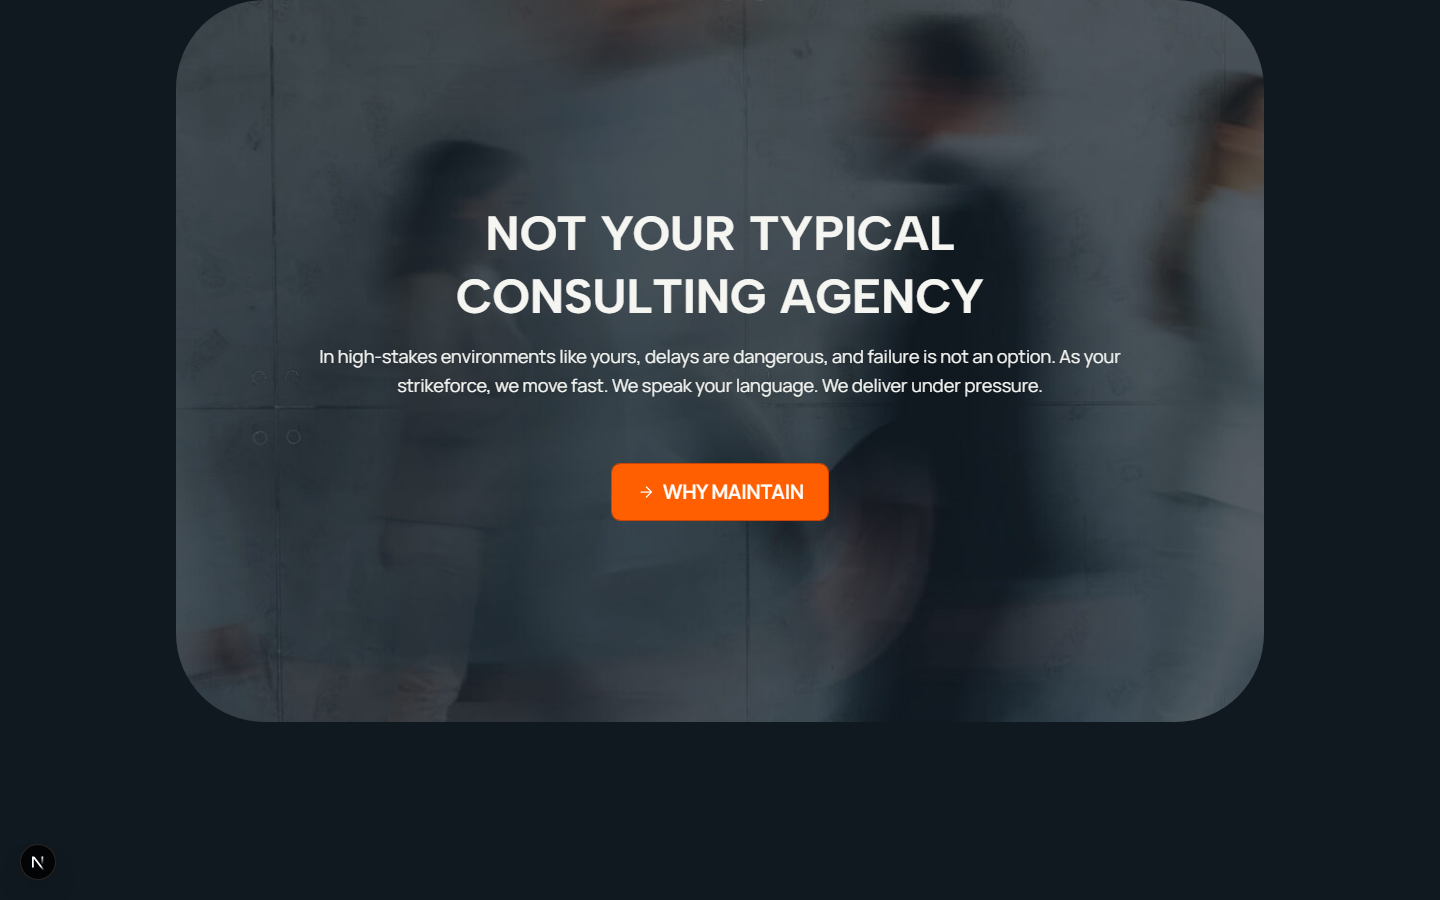
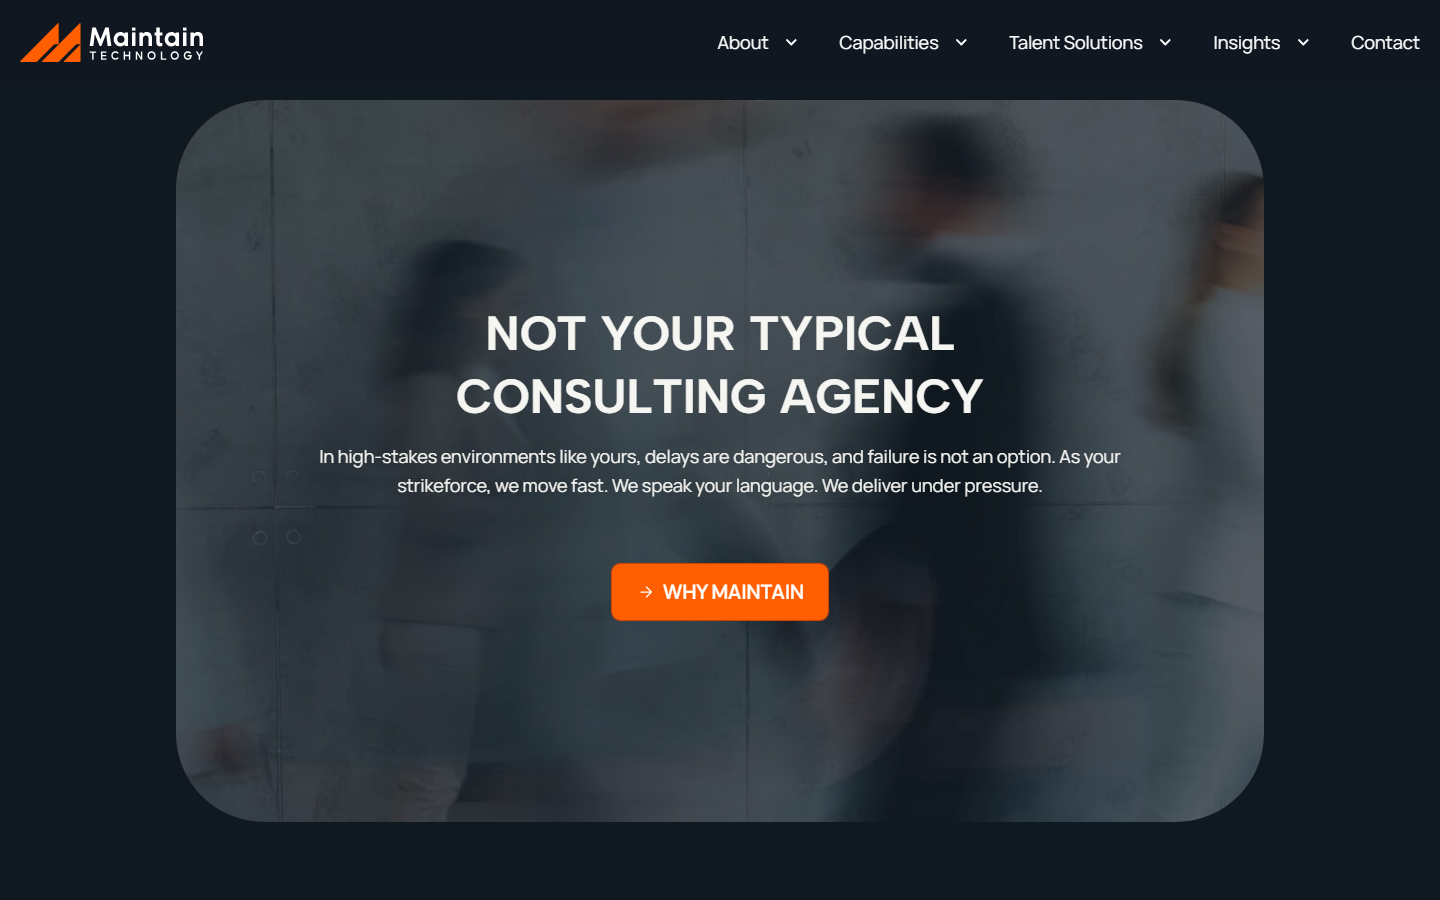
major update for maintain tech

diff --git a/src/lib/elementor/render.jsx b/src/lib/elementor/render.jsx
@@ -4,7 +4,7 @@
 // generated CSS (src/styles/wp) is keyed on those exact classes and data-ids.
 // Every shape here was read off the real rendered HTML in reference/html.
 
-import { resolveSettings, isVisible, componentProps } from './props.js';
+import { resolveSettings, isVisible, componentProps, resolveTag } from './props.js';
 import { iconOf } from './svg.js';
 import { components, templates, images } from '../content.js';
 import HtmlWidget from '../../components/HtmlWidget.jsx';
@@ -342,21 +342,54 @@ function TemplateWidget({ settings, ctx }) {
   );
 }
 
+/** Per-instance styles JetEngine prints inline before each component render:
+    any container whose `background_image` is bound to a component prop gets a
+    background rule scoped to this instance (the industry cards). The selector
+    shape matches the live output. */
+function componentInstanceCss(componentId, uid, nodes, props, ctx) {
+  const rules = [];
+  const walk = (list) => {
+    for (const n of list || []) {
+      const raw = n.settings?.__dynamic__?.background_image;
+      if (raw) {
+        const v = resolveTag(raw, props, ctx);
+        const url = typeof v === 'string' ? v : v?.url;
+        if (url) {
+          const base = `.jet-component-instance-${uid}.jet-listing-grid--${componentId} .elementor-element.elementor-element-${n.id}`;
+          rules.push(
+            `${base}:not(.elementor-motion-effects-element-type-background), ${base} > .elementor-motion-effects-container > .elementor-motion-effects-layer{background-image:url("${url}");}`
+          );
+        }
+      }
+      walk(n.elements);
+    }
+  };
+  walk(nodes);
+  return rules.join('');
+}
+
 function ComponentWidget({ componentId, settings, ctx, uid }) {
   const comp = components[componentId];
   if (!comp) return null;
   const props = componentProps(comp, settings);
+  const css = componentInstanceCss(componentId, uid, comp.tree, props, ctx);
   return (
-    <div
-      className={cx(
-        'elementor',
-        `elementor-${componentId}`,
-        `jet-listing-grid--${componentId}`,
-        `jet-component-instance-${uid}`
-      )}
-    >
-      <Tree nodes={comp.tree} ctx={{ ...ctx, props, depth: 0 }} />
-    </div>
+    <>
+      {css ? <style type="text/css">{css}</style> : null}
+      <div
+        data-elementor-type="jet-engine-component"
+        data-elementor-id={componentId}
+        className={cx(
+          'elementor',
+          `elementor-${componentId}`,
+          `jet-listing-grid--${componentId}`,
+          `jet-component-instance-${uid}`
+        )}
+        data-elementor-post-type="jet-engine"
+      >
+        <Tree nodes={comp.tree} ctx={{ ...ctx, props, depth: 0 }} />
+      </div>
+    </>
   );
 }
 

diff --git a/public/styles/site.css b/public/styles/site.css
@@ -4543,7 +4543,10 @@ html.js [text-split]:not([data-split]) {
 }
 .sticky_circle_wrap > .e-con {
   position: sticky;
-  top: 0;
+  /* Elementor Pro pinned this container with sticky_offset:100 (all devices):
+     the hero circle hangs 100px below the viewport top — just under the fixed
+     header — and expands from the navbar's bottom edge, never behind it. */
+  top: 100px;
 }
 .sticky_circle_wrap .circle {
   width: min(60em, 92vw);
@@ -4649,6 +4652,14 @@ html.js .fx-reveal.in-view {
   visibility: hidden;
   transition: opacity 0.35s ease, visibility 0.35s ease;
 }
+/* Elementor's base stylesheet hides popup documents with
+   `[data-elementor-type="popup"]:not(.elementor-edit-area){display:none}` —
+   specificity (0,2,0), which beats the single class above. Requalify so the
+   drawer keeps `display:flex` and opacity/visibility do the show/hide (a
+   display:none base state would also kill the open transition). */
+[data-elementor-type='popup'].elementor-location-popup {
+  display: flex;
+}
 .elementor-location-popup.is-open {
   opacity: 1;
   visibility: visible;
@@ -4667,6 +4678,10 @@ html.js .fx-reveal.in-view {
   position: relative;
 }
 .elementor-nav-menu .sub-menu {
+  /* Elementor's `--dropdown-none` widget CSS hides every `.elementor-nav-menu--dropdown`
+     (this ul included) with display:none; SmartMenus flipped it to block inline
+     on hover. Keep it block permanently — opacity/visibility below do the hiding. */
+  display: block;
   position: absolute;
   top: 100%;
   left: 0;
@@ -4691,6 +4706,16 @@ html.js .fx-reveal.in-view {
   margin-left: 0.35em;
   fill: currentColor;
   vertical-align: baseline;
+}
+
+/* --- sticky header (was Elementor Pro sticky) ----------------------------- */
+/* At rest the header is position:absolute over the hero (post-23.css). On the
+   live site Elementor Pro JS pins it with position:fixed once scrolled;
+   Effects.jsx toggles this class past the 100px effects offset. The blur/tint
+   restyle for the same class already ships in the live CSS. */
+html.js .elementor-location-header .header.elementor-sticky--effects {
+  position: fixed;
+  top: 0;
 }
 
 /* --- forms (was Forminator) ---------------------------------------------- */

diff --git a/src/styles/app.css b/src/styles/app.css
@@ -95,7 +95,10 @@ html.js [text-split]:not([data-split]) {
 }
 .sticky_circle_wrap > .e-con {
   position: sticky;
-  top: 0;
+  /* Elementor Pro pinned this container with sticky_offset:100 (all devices):
+     the hero circle hangs 100px below the viewport top — just under the fixed
+     header — and expands from the navbar's bottom edge, never behind it. */
+  top: 100px;
 }
 .sticky_circle_wrap .circle {
   width: min(60em, 92vw);
@@ -201,6 +204,14 @@ html.js .fx-reveal.in-view {
   visibility: hidden;
   transition: opacity 0.35s ease, visibility 0.35s ease;
 }
+/* Elementor's base stylesheet hides popup documents with
+   `[data-elementor-type="popup"]:not(.elementor-edit-area){display:none}` —
+   specificity (0,2,0), which beats the single class above. Requalify so the
+   drawer keeps `display:flex` and opacity/visibility do the show/hide (a
+   display:none base state would also kill the open transition). */
+[data-elementor-type='popup'].elementor-location-popup {
+  display: flex;
+}
 .elementor-location-popup.is-open {
   opacity: 1;
   visibility: visible;
@@ -219,6 +230,10 @@ html.js .fx-reveal.in-view {
   position: relative;
 }
 .elementor-nav-menu .sub-menu {
+  /* Elementor's `--dropdown-none` widget CSS hides every `.elementor-nav-menu--dropdown`
+     (this ul included) with display:none; SmartMenus flipped it to block inline
+     on hover. Keep it block permanently — opacity/visibility below do the hiding. */
+  display: block;
   position: absolute;
   top: 100%;
   left: 0;
@@ -243,6 +258,16 @@ html.js .fx-reveal.in-view {
   margin-left: 0.35em;
   fill: currentColor;
   vertical-align: baseline;
+}
+
+/* --- sticky header (was Elementor Pro sticky) ----------------------------- */
+/* At rest the header is position:absolute over the hero (post-23.css). On the
+   live site Elementor Pro JS pins it with position:fixed once scrolled;
+   Effects.jsx toggles this class past the 100px effects offset. The blur/tint
+   restyle for the same class already ships in the live CSS. */
+html.js .elementor-location-header .header.elementor-sticky--effects {
+  position: fixed;
+  top: 0;
 }
 
 /* --- forms (was Forminator) ---------------------------------------------- */

diff --git a/src/components/Effects.jsx b/src/components/Effects.jsx
@@ -116,7 +116,7 @@ export default function Effects() {
       // (#elementor-action%3Aaction%3Dpopup%3Aopen...). Match those, plus the
       // generic hooks.
       const triggers = document.querySelectorAll(
-        'a[href^="#popup-"], a[href*="popup%3Aopen"], [data-popup-trigger], .menu-toggle, .header .elementor-widget-icon a[href="#"]'
+        'a[href^="#popup-"]:not([href="#popup-close"]), a[href*="popup%3Aopen"], [data-popup-trigger], .menu-toggle, .header .elementor-widget-icon a[href="#"]'
       );
       triggers.forEach((t) => {
         const h = (e) => { e.preventDefault(); open(); };
@@ -128,7 +128,7 @@ export default function Effects() {
       closers.forEach((c) => {
         const h = (e) => {
           // Elementor close-action links must not navigate.
-          if (/popup%3Aclose|popup:close|^#$/.test(c.getAttribute('href') || '')) e.preventDefault();
+          if (/popup%3Aclose|popup:close|^#$|^#popup-close$/.test(c.getAttribute('href') || '')) e.preventDefault();
           close();
         };
         c.addEventListener('click', h);

diff --git a/src/app/[slug]/page.jsx b/src/app/[slug]/page.jsx
@@ -4,6 +4,10 @@ import { publishedPages, pageBySlug, listings } from '../../lib/content.js';
 import NavMenu from '../../components/NavMenu.jsx';
 
 // Every published page is a static route. `home` is served at `/` instead.
+// The content set is fixed at build time, so unknown slugs 404 instead of
+// server-rendering on demand (where public/ assets aren't on disk).
+export const dynamicParams = false;
+
 export function generateStaticParams() {
   return publishedPages.filter((p) => p.slug !== 'home').map((p) => ({ slug: p.slug }));
 }

diff --git a/src/app/layout.jsx b/src/app/layout.jsx
@@ -7,6 +7,13 @@ export const metadata = {
   metadataBase: new URL('https://maintain.com.au'),
   title: { default: siteMeta.title, template: `%s | ${siteMeta.title}` },
   description: siteMeta.description,
+  icons: {
+    // Same two link tags the live site emits.
+    icon: [
+      { url: '/assets/2025/07/maintain_tech_favicon.svg', sizes: '32x32' },
+      { url: '/assets/2025/07/maintain_tech_favicon.svg', sizes: '192x192' },
+    ],
+  },
 };
 
 // Body classes the stylesheets key off. `elementor-kit-8` carries every design

diff --git a/src/lib/elementor/props.js b/src/lib/elementor/props.js
@@ -134,7 +134,8 @@ export function resolveTag(raw, props = {}, context = {}) {
       break;
     case 'popup':
       // Elementor emits an action URL; Effects.jsx listens for this instead.
-      value = `#popup-${s.popup}`;
+      // Close-action tags carry no popup id — they close whatever is open.
+      value = s.action === 'close' ? '#popup-close' : `#popup-${s.popup}`;
       break;
 
     // --- Misc ---------------------------------------------------------------

diff --git a/src/app/case-study/[slug]/page.jsx b/src/app/case-study/[slug]/page.jsx
@@ -3,6 +3,9 @@ import { ElementorDocument } from '../../../lib/elementor/render.jsx';
 import { caseStudies, singleCaseStudy, listings, rows } from '../../../lib/content.js';
 import NavMenu from '../../../components/NavMenu.jsx';
 
+// Fixed content set: unknown slugs 404 rather than render on demand.
+export const dynamicParams = false;
+
 export function generateStaticParams() {
   return caseStudies.map((c) => ({ slug: c.slug }));
 }

diff --git a/src/app/strikeforce-newsletter/[slug]/page.jsx b/src/app/strikeforce-newsletter/[slug]/page.jsx
@@ -3,6 +3,9 @@ import { ElementorDocument } from '../../../lib/elementor/render.jsx';
 import { singleNewsletter, listings, rows } from '../../../lib/content.js';
 import NavMenu from '../../../components/NavMenu.jsx';
 
+// Fixed content set: unknown slugs 404 rather than render on demand.
+export const dynamicParams = false;
+
 export function generateStaticParams() {
   return rows.newsletters.map((n) => ({ slug: n.slug }));
 }

diff --git a/src/app/blog/[slug]/page.jsx b/src/app/blog/[slug]/page.jsx
@@ -7,6 +7,9 @@ const defaultSingle = Object.values(templates).find(
   (t) => t.kind === 'single-post' && /default/i.test(t.name)
 );
 
+// Fixed content set: unknown slugs 404 rather than render on demand.
+export const dynamicParams = false;
+
 export function generateStaticParams() {
   return rows.posts.map((p) => ({ slug: p.slug }));
 }

diff --git a/CLAUDE.md b/CLAUDE.md
@@ -84,9 +84,18 @@ static routes.**
 - **`.pretty` is a marker class with no styling.** Do not animate it — that hides
   ~54 elements per page. The real animation targets are the `_attributes` hooks.
 - **The popup opens via a dynamic-tag link resolving to `#popup-141`** (Elementor
-  popup action). Trigger/closer selectors live in Effects.jsx.
+  popup action); popup *close* tags carry `action: "close"` and resolve to
+  `#popup-close`. Trigger/closer selectors live in Effects.jsx. Elementor's base
+  CSS hides `[data-elementor-type="popup"]` at (0,2,0) specificity — app.css
+  requalifies the drawer's `display:flex`; don't weaken that selector.
 - **Known 404s that are broken on the live site too** (not regressions):
-  `2025/07/HoE_bg-1024x*.jpg`, `2025/07/phone-bold-1.svg`.
+  `2025/07/phone-bold-1.svg`. (`HoE_bg-1024x687.jpg` also 404s live, but a
+  locally generated variant now ships in `public/assets` so the Humans of ERP
+  background renders; regenerate from `HoE_bg.jpg` with sharp if it's lost.)
+- **JetEngine component instances print their dynamic background per instance**:
+  `componentInstanceCss()` in render.jsx emits the inline `<style>` that gives
+  the industry cards their `card_background_image`. Dropping it makes every
+  card background silently vanish (the CSS files never contain these rules).
 - **`jet-options-page` values are hard-coded** in `scripts/extract.mjs` under
   `OPTIONS` (contact email, phone, address, LinkedIn, booking link) because WXR
   doesn't include `wp_options`. Edit them there.

diff --git a/README.md b/README.md
@@ -169,10 +169,31 @@ Without it, submissions are written to the server log rather than dropped.
 ## Deploying
 
 Static output plus one API route, so anything that runs Node works. On Vercel it
-is zero-config. Before going live:
+is zero-config: the framework is auto-detected, every page prerenders at build
+(`dynamicParams = false` on the slug routes — unknown slugs 404 instead of
+rendering on demand), and only `/api/forms` runs as a function. `.vercelignore`
+keeps the brand library (`maintain/`), the captured live site (`reference/`),
+and the WXR export out of CLI uploads — the build only needs `src/`, `content/`,
+`public/`, and `next.config.mjs`.
+
+Two ways to deploy:
+
+```bash
+# CLI (first time: link, then deploy)
+npm i -g vercel
+vercel link
+vercel          # preview URL
+vercel --prod   # production
+
+# or connect the git repo at vercel.com/new — every push then deploys
+# (preview per branch, production from main)
+```
+
+Before going live:
 
 1. Point `metadataBase` in `src/app/layout.jsx` and `BASE` in
    `src/app/sitemap.js` at the production domain if it is not maintain.com.au.
-2. Set `FORM_WEBHOOK_URL`.
+2. Set `FORM_WEBHOOK_URL` (see `.env.example`) in Project Settings →
+   Environment Variables, or `vercel env add FORM_WEBHOOK_URL`.
 3. Re-add Google Tag Manager (`GT-NNZ3WDJC`) if you still want it — it was
    deliberately not carried over.
